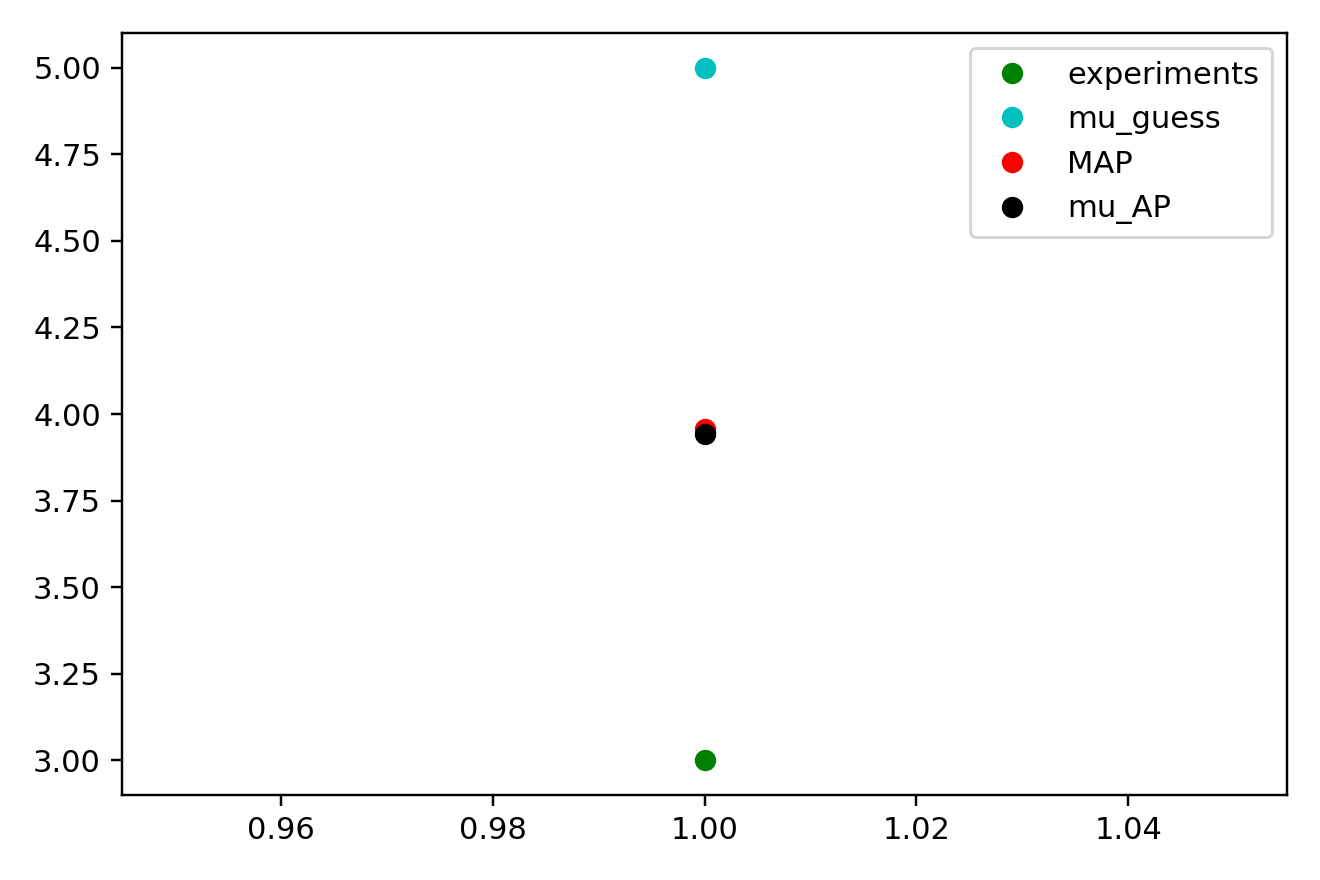
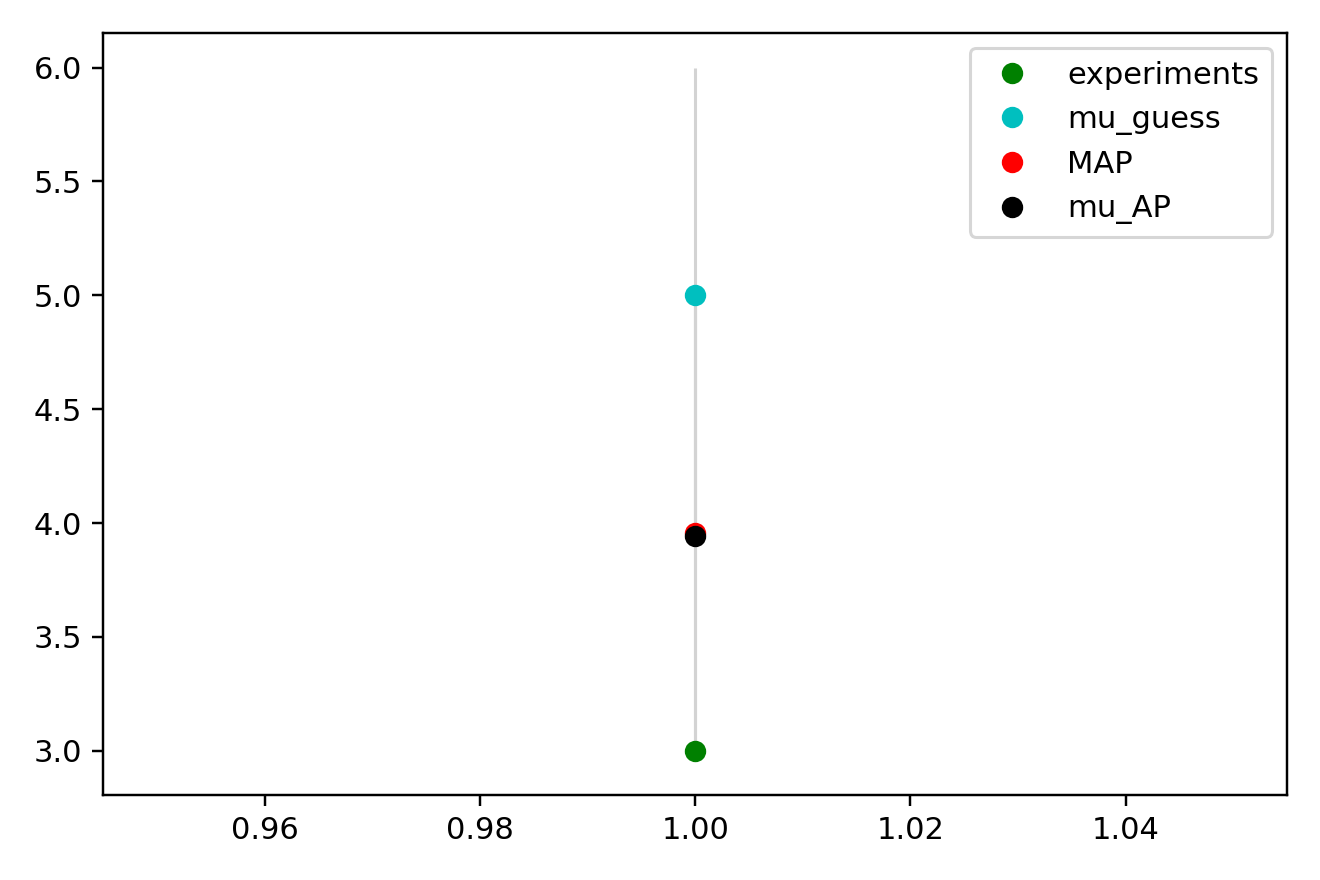
For plotting Switched to allResponsesListsOfYUncertaintiesArrays
Made the uncertainties arrays multidimensional so that simulation uncertainties can be included in the final graphs separately from observed uncertainties.

diff --git a/CheKiPEUQ/plotting_functions.py b/CheKiPEUQ/plotting_functions.py
@@ -137,7 +137,7 @@ def createSimulatedResponsesPlot(x_values, listOfYArrays, plot_settings=[], list
     if 'x_label' not in plot_settings: plot_settings['x_label'] = ''
     if 'y_label' not in plot_settings: plot_settings['y_label'] = ''
     if 'legendLabels' not in plot_settings: plot_settings['legendLabels'] = ''
-    print("line 140", plot_settings['legendLabels'])
+    print("line 140", plot_settings['legendLabels'], len(listOfYArrays))
     if 'figure_name' not in plot_settings: plot_settings['figure_name'] = 'simulatedResponsesPlot'
     if 'dpi' not in plot_settings: plot_settings['dpi']=220          
     fig0, ax0 = plt.subplots()
@@ -148,44 +148,56 @@ def createSimulatedResponsesPlot(x_values, listOfYArrays, plot_settings=[], list
         print("line 147", x_values, "\n", listOfYArrays, "\n", listOfYUncertaintiesArrays)
         if len(x_values) > 1: #This means there are enough data to make lines.        
             for seriesIndex in range(len(listOfYArrays)):           
-                if len(listOfYUncertaintiesArrays) == 0: #If length is zero, no uncertainties.
-                    ax0.plot(x_values,listOfYArrays[0],'g')
-                elif len(listOfYUncertaintiesArrays) > 0: #If length is 1, uncertainties only for first data set.
-                    ax0.plot(x_values,listOfYArrays[0],'g') #Need both of these lines to get legend to turn out right.
-                    ax0.errorbar(x_values, listOfYArrays[0], yerr=listOfYUncertaintiesArrays[0], fmt='.', barsabove=False, markersize=0, elinewidth=1, color="gray", ecolor="lightgray") #markersize=0 because we want no marker for experiments data series, just a line.
+                ax0.plot(x_values,listOfYArrays[0],'g')
+                if len(listOfYUncertaintiesArrays) >= 1: #If length is >=1, uncertainties for first data set.
+                    ax0.errorbar(x_values, listOfYArrays[0], yerr=listOfYUncertaintiesArrays[0], fmt='.', barsabove=False, markersize=0, elinewidth=1, color="gray", ecolor="lightgray") #markersize=0 because we want no marker for experiments data series, just a line..
                 ax0.plot(x_values,listOfYArrays[1], '#00A5DF')
+                if len(listOfYUncertaintiesArrays) > 1: #If length is >1, uncertainties for all data sets
+                    ax0.errorbar(x_values, listOfYArrays[1], yerr=listOfYUncertaintiesArrays[1], fmt='.', barsabove=False, markersize=0, elinewidth=1, color="gray", ecolor="lightgray") #markersize=0 because we want no marker for this.
                 ax0.plot(x_values,listOfYArrays[2], 'r') 
+                if len(listOfYUncertaintiesArrays) > 1: #If length is >1, uncertainties for all data sets
+                    ax0.errorbar(x_values, listOfYArrays[2], yerr=listOfYUncertaintiesArrays[2], fmt='.', barsabove=False, markersize=0, elinewidth=1, color="gray", ecolor="lightgray") #markersize=0 because we want no marker for this.
+                    
         if len(x_values) == 1: #This means there are single points, and we need to make symbols, by adding an "o".
             for seriesIndex in range(len(listOfYArrays)):           
-                if len(listOfYUncertaintiesArrays) == 0: #If length is zero, no uncertainties.
-                    ax0.plot(x_values,listOfYArrays[0],'go')
-                elif len(listOfYUncertaintiesArrays) > 0: #If length is >0, uncertainties only for first data set.
-                    ax0.plot(x_values,listOfYArrays[0],'go') #Need both of these lines to get legend to turn out right.
-                    ax0.errorbar(x_values, listOfYArrays[0], yerr=listOfYUncertaintiesArrays, fmt='o', barsabove=False, markersize=0, elinewidth=1, color="gray", ecolor="lightgray") #markersize=0 because we want no marker for experiments data series, just a line.
+                ax0.plot(x_values,listOfYArrays[0],'go')
+                if len(listOfYUncertaintiesArrays) >= 1: #If length is >=1, uncertainties for first data set.
+                    ax0.errorbar(x_values, listOfYArrays[0], yerr=listOfYUncertaintiesArrays[0], fmt='o', barsabove=False, markersize=0, elinewidth=1, color="gray", ecolor="lightgray") #markersize=0 because we want no marker for experiments data series, just a line.
                 ax0.plot(x_values,listOfYArrays[1], 'co')
+                if len(listOfYUncertaintiesArrays) > 1: #If length is >1, uncertainties for all data sets
+                    ax0.errorbar(x_values, listOfYArrays[1], yerr=listOfYUncertaintiesArrays[1], fmt='.', barsabove=False, markersize=0, elinewidth=1, color="gray", ecolor="lightgray") #markersize=0 because we want no marker for this.                    
                 ax0.plot(x_values,listOfYArrays[2], 'ro') 
-
+                if len(listOfYUncertaintiesArrays) > 1: #If length is >1, uncertainties for all data sets
+                    ax0.errorbar(x_values, listOfYArrays[2], yerr=listOfYUncertaintiesArrays[2], fmt='.', barsabove=False, markersize=0, elinewidth=1, color="gray", ecolor="lightgray") #markersize=0 because we want no marker for this.
     elif len(listOfYArrays) == 4: #This generally means observed, mu_guess, map, mu_app
         if len(x_values) > 1: #This means there are enough data to make lines.        
             for seriesIndex in range(len(listOfYArrays)):
-                if len (listOfYUncertaintiesArrays) == 0: #If length is zero, no uncertainties.               
-                    ax0.plot(x_values,listOfYArrays[0],'g')
-                elif len(listOfYUncertaintiesArrays) > 0: #If length is >0, uncertainties only for first data set.
-                    ax0.plot(x_values,listOfYArrays[0],'g') #Need both of these lines to get legend to turn out right.
-                    ax0.errorbar(x_values, listOfYArrays[0], yerr=listOfYUncertaintiesArrays, fmt='.', barsabove=False, markersize=0, elinewidth=1, color="gray", ecolor="lightgray") #markersize=0 because we want no marker for experiments data series, just a line.
+                ax0.plot(x_values,listOfYArrays[0],'g')
+                if len(listOfYUncertaintiesArrays) >= 1: #If length is >=1, uncertainties for first data set.
+                    ax0.errorbar(x_values, listOfYArrays[0], yerr=listOfYUncertaintiesArrays[0], fmt='.', barsabove=False, markersize=0, elinewidth=1, color="gray", ecolor="lightgray") #markersize=0 because we want no marker for experiments data series, just a line.
                 ax0.plot(x_values,listOfYArrays[1], '#00A5DF')
+                if len(listOfYUncertaintiesArrays) > 1: #If length is >1, uncertainties for all data sets
+                    ax0.errorbar(x_values, listOfYArrays[1], yerr=listOfYUncertaintiesArrays[1], fmt='.', barsabove=False, markersize=0, elinewidth=1, color="gray", ecolor="lightgray") #markersize=0 because we want no marker for this.                                             
                 ax0.plot(x_values,listOfYArrays[2], 'r') 
+                if len(listOfYUncertaintiesArrays) > 1: #If length is >1, uncertainties for all data sets
+                    ax0.errorbar(x_values, listOfYArrays[2], yerr=listOfYUncertaintiesArrays[2], fmt='.', barsabove=False, markersize=0, elinewidth=1, color="gray", ecolor="lightgray") #markersize=0 because we want no marker for this.                    
                 ax0.plot(x_values,listOfYArrays[3], 'k')  #k is black.
+                if len(listOfYUncertaintiesArrays) > 1: #If length is >1, uncertainties for all data sets
+                    ax0.errorbar(x_values, listOfYArrays[3], yerr=listOfYUncertaintiesArrays[3], fmt='.', barsabove=False, markersize=0, elinewidth=1, color="gray", ecolor="lightgray") #markersize=0 because we want no marker for this.                    
         if len(x_values) == 1: #This means there are single points, and we need to make symbols, by adding an "o".
-                if len (listOfYUncertaintiesArrays) == 0: #If length is zero, no uncertainties.               
-                    ax0.plot(x_values,listOfYArrays[0],'go')
-                elif len(listOfYUncertaintiesArrays) > 0: #If length is >0, uncertainties only for first data set.
-                    ax0.plot(x_values,listOfYArrays[0],'go') #Need both of these lines to get legend to turn out right.
-                    ax0.errorbar(x_values, listOfYArrays[0], yerr=listOfYUncertaintiesArrays, fmt='.', barsabove=False, markersize=0, elinewidth=1, color="gray", ecolor="lightgray") #markersize=0 because we want no marker for experiments data series, just a line.
+                print("line 182", len(listOfYUncertaintiesArrays), listOfYUncertaintiesArrays)
+                ax0.plot(x_values,listOfYArrays[0],'go')
+                if len(listOfYUncertaintiesArrays) >= 1: #If length is >=1, uncertainties for first data set.
+                    ax0.errorbar(x_values, listOfYArrays[0], yerr=listOfYUncertaintiesArrays[0], fmt='.', barsabove=False, markersize=0, elinewidth=1, color="gray", ecolor="lightgray") #markersize=0 because we want no marker for experiments data series, just a line.
                 ax0.plot(x_values,listOfYArrays[1], 'co')
+                if len(listOfYUncertaintiesArrays) > 1: #If length is >1, uncertainties for all data sets
+                    ax0.errorbar(x_values, listOfYArrays[1], yerr=listOfYUncertaintiesArrays[1], fmt='.', barsabove=False, markersize=0, elinewidth=1, color="gray", ecolor="lightgray") #markersize=0 because we want no marker for this.                    
                 ax0.plot(x_values,listOfYArrays[2], 'ro') 
+                if len(listOfYUncertaintiesArrays) > 1: #If length is >1, uncertainties for all data sets
+                    ax0.errorbar(x_values, listOfYArrays[2], yerr=listOfYUncertaintiesArrays[2], fmt='.', barsabove=False, markersize=0, elinewidth=1, color="gray", ecolor="lightgray") #markersize=0 because we want no marker for this.                    
                 ax0.plot(x_values,listOfYArrays[3], 'ko')  #k is black. https://matplotlib.org/3.1.0/api/_as_gen/matplotlib.pyplot.plot.html#matplotlib.pyplot.plot
-            
+                if len(listOfYUncertaintiesArrays) > 1: #If length is >1, uncertainties for all data sets
+                    ax0.errorbar(x_values, listOfYArrays[2], yerr=listOfYUncertaintiesArrays[3], fmt='.', barsabove=False, markersize=0, elinewidth=1, color="gray", ecolor="lightgray") #markersize=0 because we want no marker for this.                    
     else:
         if len(x_values) > 1: #This means there are enough data to make lines.        
             for seriesIndex in range(len(listOfYArrays)):

diff --git a/CheKiPEUQ/InverseProblem.py b/CheKiPEUQ/InverseProblem.py
@@ -709,14 +709,19 @@ class parameter_estimation:
         pd.plotting.scatter_matrix(posterior_df)
         plt.savefig(plot_settings['figure_name'],dpi=plot_settings['dpi'])
         
-    def createSimulatedResponsesPlots(self, allResponses_x_values=[], allResponsesListsOfYArrays =[], plot_settings={},allResponsesListsOfYUncertainties=[] ): 
+    def createSimulatedResponsesPlots(self, allResponses_x_values=[], allResponsesListsOfYArrays =[], plot_settings={},allResponsesListsOfYUncertaintiesArrays=[] ): 
         #allResponsesListsOfYArrays  is to have 3 layers of lists: Response > Responses Observed, mu_guess Simulated Responses, map_Simulated Responses, (mu_AP_simulatedResponses) > Values
-        if allResponses_x_values == []: allResponses_x_values = self.UserInput.responses_abscissa       
-        if allResponsesListsOfYUncertainties == []: 
-            if type(self.UserInput.model['responses_simulation_uncertainties']) == None: #This means there are no simulation uncertainties.
-                allResponsesListsOfYUncertainties = [self.UserInput.responses_observed_uncertainties]
+        if allResponses_x_values == []: 
+            allResponses_x_values = np.atleast_2d(self.UserInput.responses_abscissa)
+        if allResponsesListsOfYUncertaintiesArrays == []: 
+            #Now need to make a for loop where we add in one list for each dimension.
+            if type(self.UserInput.model['responses_simulation_uncertainties']) == type(None): #This means there are no simulation uncertainties. So for each response dimension, there will be a list with only the observed uncertainties in that list.
+                for responseDimIndex in range(self.UserInput.num_response_dimensions):    #this range is same as len(allResponsesListsOfYUncertaintiesArrays)
+                    allResponsesListsOfYUncertaintiesArrays.append( [self.UserInput.responses_observed_uncertainties[responseDimIndex]] ) #Just creating nesting, we need to give a list for each response dimension.
             else:
-                allResponsesListsOfYUncertainties = [self.UserInput.responses_observed_uncertainties]
+                for responseDimIndex in range(self.UserInput.num_response_dimensions):    #this range is same as len(allResponsesListsOfYUncertaintiesArrays)
+                    allResponsesListsOfYUncertaintiesArrays.append([self.UserInput.responses_observed_uncertainties[responseDimIndex],self.UserInput.model['responses_simulation_uncertainties'][responseDimIndex],self.UserInput.model['responses_simulation_uncertainties'][responseDimIndex],self.UserInput.model['responses_simulation_uncertainties'][responseDimIndex] ]) #Just creating nesting, we need to give a list for each response dimension.
+        print("line 724", allResponsesListsOfYUncertaintiesArrays)
         if allResponsesListsOfYArrays  ==[]:
             
             simulationFunction = self.UserInput.simulationFunction #Do NOT use self.UserInput.model['simulateByInputParametersOnlyFunction']  because that won't work with reduced parameter space requests.
@@ -781,10 +786,12 @@ class parameter_estimation:
                     individual_plot_settings['y_label'] = plot_settings['y_label'][responseDimIndex]                
             #TODO, low priority: we can check if x_range and y_range are nested, and thereby allow individual response dimension values for those.                               
             if np.shape(allResponses_x_values)[0] == 1: #This means a single abscissa for all responses.
-                figureObject = plotting_functions.createSimulatedResponsesPlot(allResponses_x_values[0], allResponsesListsOfYArrays[responseDimIndex], individual_plot_settings, listOfYUncertaintiesArrays=allResponsesListsOfYUncertainties[responseDimIndex])
+                print("line 790")
+                figureObject = plotting_functions.createSimulatedResponsesPlot(allResponses_x_values[0], allResponsesListsOfYArrays[responseDimIndex], individual_plot_settings, listOfYUncertaintiesArrays=allResponsesListsOfYUncertaintiesArrays[responseDimIndex])
                 np.savetxt(individual_plot_settings['figure_name']+".csv", np.vstack((allResponses_x_values[0], allResponsesListsOfYArrays[responseDimIndex])).transpose(), delimiter=",", header='x_values, observed, sim_initial_guess, sim_MAP, sim_mu_AP', comments='')
             if np.shape(allResponses_x_values)[0] > 1: #This means a separate abscissa for each response.
-                figureObject = plotting_functions.createSimulatedResponsesPlot(allResponses_x_values[responseDimIndex], allResponsesListsOfYArrays[responseDimIndex], individual_plot_settings, listOfYUncertaintiesArrays=allResponsesListsOfYUncertainties[responseDimIndex])
+                print("line 794", allResponses_x_values, "\n", allResponsesListsOfYArrays)
+                figureObject = plotting_functions.createSimulatedResponsesPlot(allResponses_x_values[responseDimIndex], allResponsesListsOfYArrays[responseDimIndex], individual_plot_settings, listOfYUncertaintiesArrays=allResponsesListsOfYUncertaintiesArrays[responseDimIndex])
                 np.savetxt(individual_plot_settings['figure_name']+".csv", np.vstack((allResponses_x_values[responseDimIndex], allResponsesListsOfYArrays[responseDimIndex])).transpose(), delimiter=",", header='x_values, observed, sim_initial_guess, sim_MAP, sim_mu_AP', comments='')
             allResponsesFigureObjectsList.append(figureObject)
         return allResponsesFigureObjectsList  #This is a list of matplotlib.pyplot as plt objects.

diff --git a/Examples/Example07/runfile_Example07b.py b/Examples/Example07/runfile_Example07b.py
@@ -5,7 +5,7 @@ if __name__ == "__main__":
     import processing_function_two_response #This will provide the "simulation" function.
     import numpy as np
 
-    UserInput.responses['responses_abscissa'] = np.array([[0], [1]]) # These represent theta_1 and theta_2 abscissay points. Note that this is *nested* it is a multi-dimensional response, and produces two posteriors.
+    UserInput.responses['responses_abscissa'] = np.array([[0], [1]]) # These represent theta_1 and theta_2 abscissa points. Note that this is *nested* it is a multi-dimensional response, and produces posterior distributions for each response.
     UserInput.responses['responses_observed'] = np.array([[2], [3]]) # Note that this is *nested* it is a multi-dimensional response, and produces two posteriors.
     UserInput.responses['responses_observed_uncertainties'] = np.array([[1], [1]])
 
